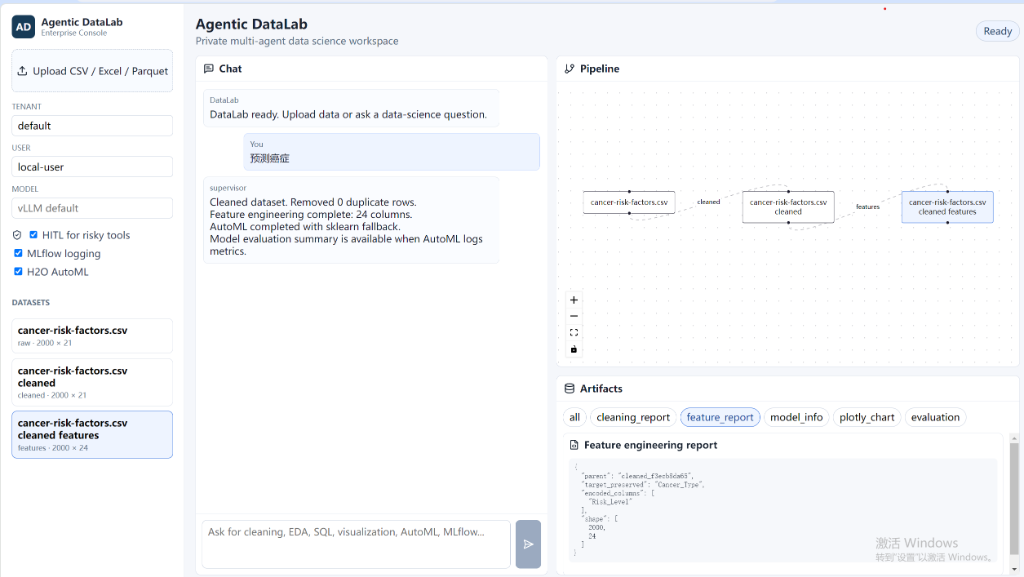
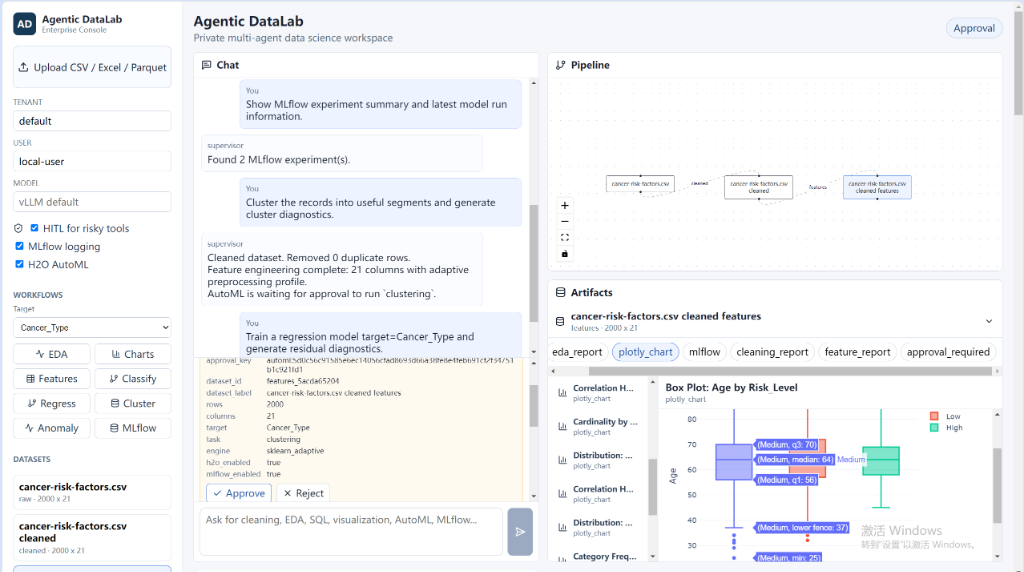
Docs: Update main workspace screenshot and remove duplicates

diff --git a/README.md b/README.md
@@ -16,13 +16,7 @@ The frontend is a robust Vue 3 + Vite application providing real-time WebSocket 
 Agentic-DataLab features a dynamic, real-time Vue 3 interface to track multi-agent interactions, pipeline execution, and data artifacts.
 
 <div align="center">
-  <img src="docs/images/screenshot_1.png" alt="Pipeline Overview" width="80%">
-  <br/>
-  <img src="docs/images/screenshot_2.png" alt="Data Profiling & EDA" width="80%">
-  <br/>
-  <img src="docs/images/screenshot_3.png" alt="Feature Engineering" width="80%">
-  <br/>
-  <img src="docs/images/screenshot_4.png" alt="AutoML Evaluation" width="80%">
+  <img src="docs/images/screenshot_1.png" alt="Agentic DataLab Workspace" width="80%">
   <br/>
   <img src="docs/images/screenshot_hitl_1.png" alt="Human-in-the-Loop (HITL) Intervention" width="80%">
   <br/>
